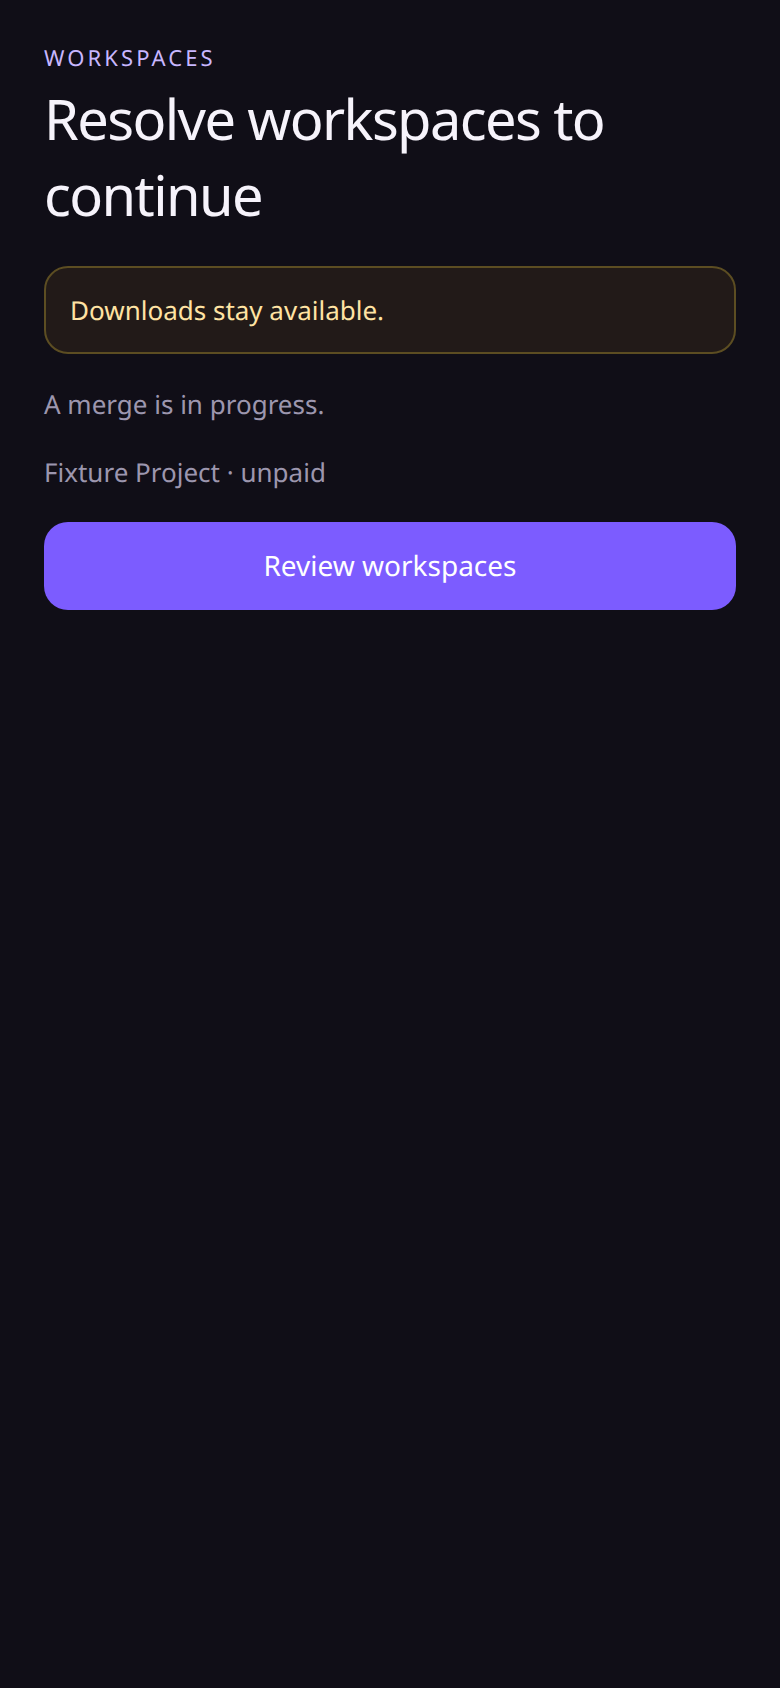
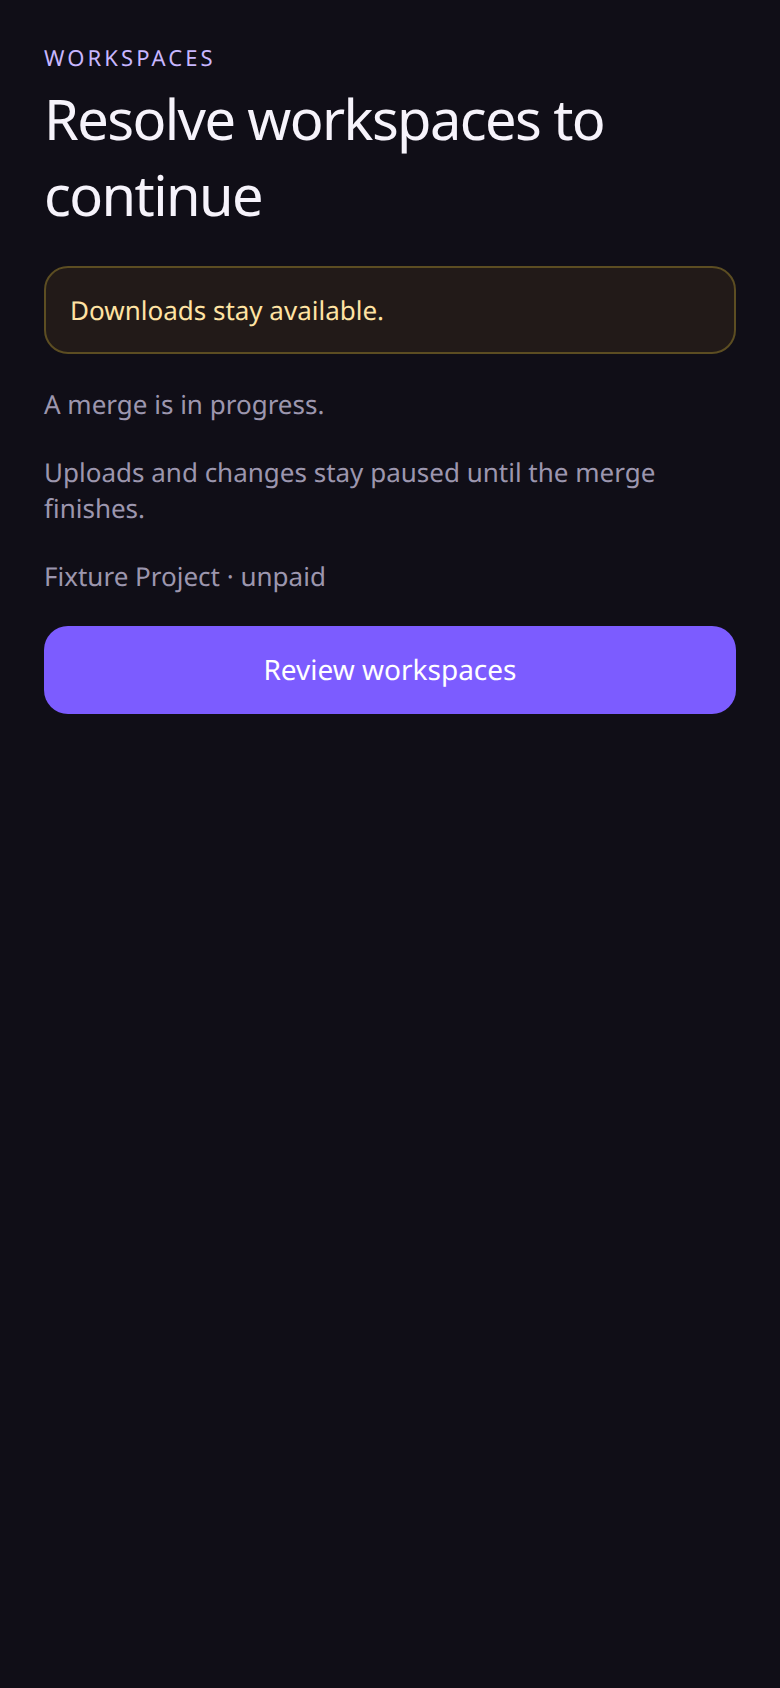
feat(mobile): fall back on support 401 and require feeWaived
A support-request 401, with or without a code, uses the support mailto
and does not ask the user to sign in. owner-fee-waived.json is vendored
from cloud-ssd PR #5, and a missing feeWaived is a parse error.

Changed region(s): [[0.0308, 0.2773, 0.9538, 0.4313]]

diff --git a/apps/mobile/test/pricing.test.tsx b/apps/mobile/test/pricing.test.tsx
@@ -1,9 +1,9 @@
 import { parseWorkspacePrice, workspacePriceLabel, type WorkspacePrice, type WorkspaceRecord } from "@gendragoon/core";
 import { fireEvent, render } from "@testing-library/react-native";
 import { WORKSPACE_PRICING_ENABLED } from "../src/flags";
-import { additionalWorkspaceFeeText, grandfatheringEndedPrice, includedPricingEndsWarning, serverPriceLabel, workspaceQuoteExplanation } from "../src/pricing";
+import { additionalWorkspaceFeeText, grandfatheringEndedPrice, includedPricingEndsWarning, parseFeeWaived, serverPriceLabel, workspaceQuoteExplanation } from "../src/pricing";
 import { ConnectStorageScreen, LockScreen, NewWorkspaceScreen, WorkspacesScreen } from "../src/screens";
-import { FIXTURE_SOURCE_SHA_BY_AREA, loadFixture } from "./loadFixture";
+import { FIXTURE_SOURCE_SHA_BY_AREA, OWNER_FEE_WAIVED_SHA, loadFixture } from "./loadFixture";
 
 const PRICING_SHA = "4c3dd13587fae1ddfa907ad2b84c0886d7794ade";
 
@@ -61,7 +61,10 @@ describe("workspace price labels", () => {
     );
     expect(body.workspaces[0]?.monthlyPriceCents).toBe(500);
     expect(body.workspaces[0]?.isFree).toBe(false);
-    expect(screen.getByTestId("workspace-price-11111111-1111-4111-8111-000000000003").props.children).toBe("$5.00");
+    expect(() => parseFeeWaived(body.workspaces[0])).toThrow(TypeError);
+    expect(serverPriceLabel(body.workspaces[0])).toBeNull();
+    expect(workspacePriceLabel(parseWorkspacePrice(body.workspaces[0]))).toBe("$5.00");
+    expect(screen.queryByTestId("workspace-price-11111111-1111-4111-8111-000000000003")).toBeNull();
     expect(screen.queryByText("Free")).toBeNull();
     expect(screen.queryByText("$0.00/mo")).toBeNull();
   });
@@ -77,8 +80,12 @@ describe("workspace price labels", () => {
         onMerge={() => undefined}
       />,
     );
-    expect(screen.getByTestId("workspace-price-11111111-1111-4111-8111-000000000001").props.children).toBe("$5.00");
-    expect(screen.getByTestId("workspace-price-11111111-1111-4111-8111-000000000002").props.children).toBe("Free");
+    expect(serverPriceLabel(body.workspaces[0])).toBeNull();
+    expect(serverPriceLabel(body.workspaces[1])).toBeNull();
+    expect(workspacePriceLabel(parseWorkspacePrice(body.workspaces[0]))).toBe("$5.00");
+    expect(workspacePriceLabel(parseWorkspacePrice(body.workspaces[1]))).toBe("Free");
+    expect(screen.queryByTestId("workspace-price-11111111-1111-4111-8111-000000000001")).toBeNull();
+    expect(screen.queryByTestId("workspace-price-11111111-1111-4111-8111-000000000002")).toBeNull();
     expect(screen.queryByText("$0.00/mo")).toBeNull();
   });
 
@@ -97,7 +104,7 @@ describe("workspace price labels", () => {
       <NewWorkspaceScreen quote={free.response.body.project} byoQuote={byo.response.body} onCreate={() => undefined} />,
     );
     expect(screen.getByTestId("new-workspace-explain").props.children).toBe("Your first hosted workspace is free");
-    expect(screen.getByTestId("new-workspace-price").props.children).toBe("Free");
+    expect(screen.queryByTestId("new-workspace-price")).toBeNull();
     expect(screen.getByTestId("create-workspace")).toBeDisabled();
     await fireEvent.changeText(screen.getByTestId("workspace-name"), "Vacation photos");
     expect(screen.getByTestId("create-workspace")).not.toBeDisabled();
@@ -109,7 +116,14 @@ describe("workspace price labels", () => {
       <NewWorkspaceScreen quote={paid.response.body.project} onCreate={() => undefined} />,
     );
     expect(second.getByTestId("new-workspace-explain").props.children).toBe("Additional workspaces are $5.00/mo");
-    expect(second.getByTestId("new-workspace-price").props.children).toBe("$5.00");
+    expect(second.queryByTestId("new-workspace-price")).toBeNull();
+    const priced = await render(
+      <NewWorkspaceScreen
+        quote={{ isFree: true, grandfathered: false, monthlyPriceCents: 0, feeWaived: false }}
+        onCreate={() => undefined}
+      />,
+    );
+    expect(priced.getByTestId("new-workspace-price").props.children).toBe("Free");
   });
 
   it("labels a BYO register at 500 cents and keeps one free workspace in a concurrent create", () => {
@@ -134,6 +148,9 @@ describe("workspace price labels", () => {
     expect(() => parseWorkspacePrice({ name: "no price" })).toThrow(TypeError);
     expect(serverPriceLabel(null)).toBeNull();
     expect(serverPriceLabel({ name: "no price" })).toBeNull();
+    expect(() => parseFeeWaived({ isFree: false, grandfathered: false, monthlyPriceCents: 500 })).toThrow(TypeError);
+    expect(serverPriceLabel({ isFree: false, grandfathered: false, monthlyPriceCents: 500 })).toBeNull();
+    expect(serverPriceLabel({ isFree: false, grandfathered: false, monthlyPriceCents: 500, feeWaived: false })).toBe("$5.00");
     expect(serverPriceLabel({ isFree: false, grandfathered: false, monthlyPriceCents: 500, feeWaived: true })).toBe("Included");
     expect(serverPriceLabel({ isFree: true, grandfathered: false, monthlyPriceCents: 0, feeWaived: true })).toBe("Free");
     expect(serverPriceLabel({ feeWaived: true })).toBe("Included");
@@ -148,7 +165,9 @@ describe("workspace price labels", () => {
       grandfathered: false,
       isFree: false,
       monthlyPriceCents: 500,
+      feeWaived: false,
     };
+    expect(grandfatheringEndedPrice({ ...body, feeWaived: undefined })).toBeNull();
     expect(grandfatheringEndedPrice(body)).toBe("$5.00");
     expect(includedPricingEndsWarning(500)).toBe(
       "Switching to your own storage ends this workspace's included pricing. It will cost $5.00/mo.",
@@ -174,8 +193,38 @@ describe("workspace price labels", () => {
     );
     expect(workspacePriceLabel(parseWorkspacePrice(body.workspaces[0]))).toBe("Included");
     expect(workspacePriceLabel(parseWorkspacePrice(body.workspaces[1]))).toBe("Free");
-    expect(screen.getByTestId("workspace-price-11111111-1111-4111-8111-000000000008").props.children).toBe("Included");
-    expect(screen.getByTestId("workspace-price-11111111-1111-4111-8111-000000000009").props.children).toBe("Free");
+    expect(serverPriceLabel(body.workspaces[0])).toBeNull();
+    expect(serverPriceLabel(body.workspaces[1])).toBeNull();
+    expect(screen.queryByTestId("workspace-price-11111111-1111-4111-8111-000000000008")).toBeNull();
+    expect(screen.queryByTestId("workspace-price-11111111-1111-4111-8111-000000000009")).toBeNull();
+    expect(screen.queryByText("$0.00")).toBeNull();
+    expect(screen.queryByText("$0.00/mo")).toBeNull();
+  });
+
+  it("labels owner-fee-waived as Included", async () => {
+    const fixture = loadFixture<{
+      feeWaived: boolean;
+      project: { id: string; name: string; kind: "paid"; isFree: boolean; grandfathered: boolean; monthlyPriceCents: number; feeWaived: boolean };
+    }>("workspaces/owner-fee-waived.json");
+    expect(fixture.sourceSha).toBe(OWNER_FEE_WAIVED_SHA);
+    expect(fixture.sourcePath).toBe("fixtures/workspaces/owner-fee-waived.json");
+    const project = fixture.response.body.project;
+    expect(parseFeeWaived(project)).toBe(true);
+    expect(parseFeeWaived(fixture.response.body)).toBe(true);
+    expect(serverPriceLabel(project)).toBe("Included");
+    const withoutFee = { ...project };
+    delete (withoutFee as { feeWaived?: boolean }).feeWaived;
+    expect(() => parseFeeWaived(withoutFee)).toThrow(TypeError);
+    expect(serverPriceLabel(withoutFee)).toBeNull();
+    const screen = await render(
+      <WorkspacesScreen
+        workspaces={[project]}
+        unpaidIds={[]}
+        onDelete={() => undefined}
+        onMerge={() => undefined}
+      />,
+    );
+    expect(screen.getByTestId(`workspace-price-${project.id}`).props.children).toBe("Included");
     expect(screen.queryByText("$0.00")).toBeNull();
     expect(screen.queryByText("$0.00/mo")).toBeNull();
   });

diff --git a/apps/mobile/test/support-request.test.tsx b/apps/mobile/test/support-request.test.tsx
@@ -247,6 +247,62 @@ describe("deletion support request", () => {
     openURL.mockRestore();
   });
 
+  it("PROVISIONAL: a local 401 unauthorized or a 401 with no code mails and never asks for sign-in", async () => {
+    // Riley has not shipped a support-request 401 fixture. Both cases are local until that file exists.
+    const unauthorized = await requestDeletionSupport({
+      baseUrl: "https://api.example.test",
+      jobId,
+      statusToken: TOKEN,
+      fetchImpl: (async () => responseFor(401, { error: "unauthorized" })) as typeof fetch,
+    });
+    const noCode = await requestDeletionSupport({
+      baseUrl: "https://api.example.test",
+      jobId,
+      statusToken: TOKEN,
+      fetchImpl: (async () => new Response("", { status: 401 })) as typeof fetch,
+    });
+    expect(unauthorized).toEqual({ kind: "fallback" });
+    expect(noCode).toEqual({ kind: "fallback" });
+
+    const openURL = jest.spyOn(Linking, "openURL").mockResolvedValue(undefined as never);
+    const onReauth = jest.fn();
+    const secrets = new MemorySecretStore();
+    await secrets.set("account-deletion:status-token", new TextEncoder().encode(TOKEN));
+    const mailto = supportContactTarget(SUPPORT_CONTACT.value, jobId);
+    expect(mailto).toBe(`mailto:${SUPPORT_CONTACT.value}?subject=${encodeURIComponent(`Account deletion ${jobId}`)}`);
+    const screen = await render(
+      <DeleteAccountScreen
+        frame="not-retryable"
+        jobId={jobId}
+        supportEndpointEnabled
+        apiBase="https://api.example.test"
+        supportFetch={(async () => responseFor(401, { error: "unauthorized" })) as typeof fetch}
+        activeTransfers={0}
+        secrets={secrets}
+        workspaceIds={["ws-1"]}
+        idToken=""
+        client={{
+          async deleteAccount() {
+            return { jobId };
+          },
+          async deletionStatus() {
+            return { jobId, status: "failed", retryable: false };
+          },
+        }}
+        onReauth={onReauth}
+        onSignedOut={() => undefined}
+        onDone={() => undefined}
+        onError={() => undefined}
+      />,
+    );
+    await fireEvent.press(screen.getByTestId("contact-support"));
+    await waitFor(() => expect(openURL).toHaveBeenCalledWith(mailto));
+    expect(onReauth).not.toHaveBeenCalled();
+    expect(screen.queryByTestId("deletion-reauth")).toBeNull();
+    expect(screen.queryByText("Sign in again. Your last sign-in is older than 5 minutes.")).toBeNull();
+    openURL.mockRestore();
+  });
+
   it("409 refreshes deletion status and 429 shows the already-sent message", async () => {
     const openURL = jest.spyOn(Linking, "openURL").mockResolvedValue(undefined as never);
     const secrets = new MemorySecretStore();

diff --git a/apps/mobile/src/pricing.ts b/apps/mobile/src/pricing.ts
@@ -3,20 +3,34 @@
  * Free, Included, and cent formatting live in core.
  * `feeWaived` is not on core's helper yet (296cb96). Until
  * `workspacePriceLabel` returns Included for that flag, this file does.
+ * The flag is required: a missing or non-boolean value is a parse error,
+ * not `false`.
  */
 import { parseWorkspacePrice, workspacePriceLabel, type WorkspacePrice } from "@gendragoon/core";
 
-function feeWaived(value: unknown): boolean {
-  return !!value && typeof value === "object" && (value as { feeWaived?: unknown }).feeWaived === true;
+/** Reads `feeWaived`. Missing and non-booleans throw; they are not false. */
+export function parseFeeWaived(value: unknown): boolean {
+  if (!value || typeof value !== "object" || !Object.prototype.hasOwnProperty.call(value, "feeWaived")) {
+    throw new TypeError("Workspace feeWaived is missing");
+  }
+  const flag = (value as { feeWaived: unknown }).feeWaived;
+  if (typeof flag !== "boolean") throw new TypeError("Workspace feeWaived is missing");
+  return flag;
 }
 
 export function serverPriceLabel(value: unknown): string | null {
-  const waived = feeWaived(value);
+  let waived: boolean;
+  try {
+    waived = parseFeeWaived(value);
+  } catch (error) {
+    if (error instanceof TypeError) return null;
+    throw error;
+  }
   try {
     const price = parseWorkspacePrice(value);
-    const label = workspacePriceLabel(waived ? { ...price, feeWaived: true } as WorkspacePrice : price);
+    const label = workspacePriceLabel(price);
     if (price.isFree) return label;
-    if (waived && label !== "Included") return "Included";
+    if (waived) return "Included";
     return label;
   } catch (error) {
     if (error instanceof TypeError) return waived ? "Included" : null;
@@ -32,18 +46,7 @@ export function grandfatheringEnded(value: unknown): boolean {
 /** Price to show once register reports `grandfatheringEnded`. Core formats the cents. */
 export function grandfatheringEndedPrice(value: unknown): string | null {
   if (!grandfatheringEnded(value)) return null;
-  const parsed = serverPriceLabel(value);
-  if (parsed) return parsed;
-  if (!value || typeof value !== "object") return null;
-  const record = value as { grandfathered?: unknown; monthlyPriceCents?: unknown; isFree?: unknown };
-  if (record.grandfathered !== false || typeof record.monthlyPriceCents !== "number" || !Number.isInteger(record.monthlyPriceCents)) {
-    return null;
-  }
-  return workspacePriceLabel({
-    isFree: record.isFree === true,
-    grandfathered: false,
-    monthlyPriceCents: record.monthlyPriceCents,
-  });
+  return serverPriceLabel(value);
 }
 
 /** `$5.00/mo` from core's cent formatter. Zero and missing amounts stay blank. */

diff --git a/apps/mobile/src/shots.tsx b/apps/mobile/src/shots.tsx
@@ -156,15 +156,15 @@ export function ShotFrame(props: { id: ShotId }) {
         {props.id === "byo-s3" ? <ConnectStorageScreen /> : null}
         {props.id === "pricing-free-first" ? (
           <NewWorkspaceScreen
-            quote={{ isFree: true, grandfathered: true, monthlyPriceCents: 0 }}
-            byoQuote={{ isFree: false, grandfathered: false, monthlyPriceCents: 500 }}
+            quote={{ isFree: true, grandfathered: true, monthlyPriceCents: 0, feeWaived: false }}
+            byoQuote={{ isFree: false, grandfathered: false, monthlyPriceCents: 500, feeWaived: false }}
             onCreate={() => undefined}
           />
         ) : null}
         {props.id === "pricing-create-byo" ? (
           <NewWorkspaceScreen
-            quote={{ isFree: true, grandfathered: true, monthlyPriceCents: 0 }}
-            byoQuote={{ isFree: false, grandfathered: false, monthlyPriceCents: 500 }}
+            quote={{ isFree: true, grandfathered: true, monthlyPriceCents: 0, feeWaived: false }}
+            byoQuote={{ isFree: false, grandfathered: false, monthlyPriceCents: 500, feeWaived: false }}
             initialName="Vacation photos"
             initialStorage="byo"
             initialProviderId="aws"
@@ -181,6 +181,7 @@ export function ShotFrame(props: { id: ShotId }) {
                 isFree: false,
                 grandfathered: false,
                 monthlyPriceCents: 500,
+                feeWaived: false,
               },
               {
                 id: "11111111-1111-4111-8111-000000000002",
@@ -189,6 +190,7 @@ export function ShotFrame(props: { id: ShotId }) {
                 isFree: true,
                 grandfathered: true,
                 monthlyPriceCents: 0,
+                feeWaived: false,
               },
             ]}
             unpaidIds={["11111111-1111-4111-8111-000000000001"]}
@@ -208,6 +210,7 @@ export function ShotFrame(props: { id: ShotId }) {
                 isFree: false,
                 grandfathered: false,
                 monthlyPriceCents: 500,
+                feeWaived: false,
               },
               {
                 id: "11111111-1111-4111-8111-000000000001",
@@ -216,6 +219,7 @@ export function ShotFrame(props: { id: ShotId }) {
                 isFree: true,
                 grandfathered: false,
                 monthlyPriceCents: 0,
+                feeWaived: false,
               },
             ]}
             unpaidIds={[]}

diff --git a/apps/mobile/src/supportRequest.ts b/apps/mobile/src/supportRequest.ts
@@ -23,9 +23,9 @@ export function deletionSupportRequestPath(jobId: string): string {
  * Provisional call. A 202 `{status:"received", requestId}` is success, including
  * a repeat of the same requestId. 409 `support_not_needed` means the job is not
  * failed, so the caller refreshes deletion status. 429 is already sent.
- * A network error, HTTP 404, or HTTP 5xx falls back to the support contact.
- * 404 must not ask the user to sign in: the account may already be deleted.
- * Only 202, a repeat send, 409, and 429 have their own UI.
+ * A network error, HTTP 401, HTTP 404, or HTTP 5xx falls back to the support contact.
+ * 401 `unauthorized`, a 401 with no code, and 404 must not ask the user to sign in:
+ * the account may already be deleted. Only 202, a repeat send, 409, and 429 have their own UI.
  */
 export async function requestDeletionSupport(input: {
   baseUrl: string;
@@ -56,6 +56,8 @@ export async function requestDeletionSupport(input: {
       return { kind: "sent", requestId: body.requestId };
     }
   }
+  // 401 (`unauthorized` or no code) and 404 match a network error or 5xx.
+  if (response.status === 401 || response.status === 404) return { kind: "fallback" };
   return { kind: "fallback" };
 }
 

diff --git a/apps/mobile/test/loadFixture.ts b/apps/mobile/test/loadFixture.ts
@@ -7,6 +7,9 @@ export const FIXTURE_SOURCE_SHA = "da3927627fee76103981714f9f8ffa954843b74b";
 /** cloud-ssd PR #6 support fixtures. The rest of account-deletion stays on fff0a84. */
 export const SUPPORT_FIXTURE_SHA = "d33970cbf0175a74898c37a8a624a92b1c1a5a94";
 
+/** cloud-ssd PR #5 tip that adds `workspaces/owner-fee-waived.json`. */
+export const OWNER_FEE_WAIVED_SHA = "0715b1a933a3ee3bb489e28a6122475403bb341d";
+
 /** Files whose source commit differs from the rest of their area. */
 export const FIXTURE_SOURCE_SHA_BY_FILE: Record<string, string> = {
   "account-deletion/support-received.json": SUPPORT_FIXTURE_SHA,
@@ -14,6 +17,7 @@ export const FIXTURE_SOURCE_SHA_BY_FILE: Record<string, string> = {
   "account-deletion/support-bad-token.json": SUPPORT_FIXTURE_SHA,
   "account-deletion/support-rate-limited.json": SUPPORT_FIXTURE_SHA,
   "account-deletion/support-not-needed.json": SUPPORT_FIXTURE_SHA,
+  "workspaces/owner-fee-waived.json": OWNER_FEE_WAIVED_SHA,
 };
 
 /** Later fixture areas, keyed by the directory under fixtures/. */

diff --git a/apps/mobile/src/screens.tsx b/apps/mobile/src/screens.tsx
@@ -172,6 +172,11 @@ export function LockScreen(props: {
       {props.lock ? (
         <Text testID="lock-reason" style={styles.help}>{lockReasonMessage(props.lock.reason, props.lock.overBy)}</Text>
       ) : null}
+      {props.lock?.reason === "merge_in_progress" ? (
+        <Text testID="merge-in-progress-detail" style={styles.help}>
+          Uploads and changes stay paused until the merge finishes.
+        </Text>
+      ) : null}
       {rows.map((workspace) => (
         <Text key={workspace.id} testID={`lock-workspace-${workspace.id}`} style={styles.help}>
           {workspace.name}{workspace.unpaid ? " · unpaid" : ""}
@@ -247,7 +252,7 @@ export interface ServerMergeResult {
   copied: number;
 }
 
-export type ListedWorkspace = WorkspaceRecord;
+export type ListedWorkspace = WorkspaceRecord & { feeWaived?: boolean };
 
 export function NewWorkspaceScreen(props: {
   /** Server quote for a hosted workspace. Not a client-side count. */

diff --git a/apps/mobile/test/server-fixtures.test.tsx b/apps/mobile/test/server-fixtures.test.tsx
@@ -184,6 +184,13 @@ describe("vendored cloud-ssd fixtures", () => {
     const pays = name === "lapsed" || name === "over-cap-and-lapsed";
     if (pays) expect(screen.getByTestId("pay-to-restore")).toBeTruthy();
     else expect(screen.queryByTestId("pay-to-restore")).toBeNull();
+    if (name === "merge-in-progress") {
+      expect(textOf(screen.getByTestId("merge-in-progress-detail"))).toBe(
+        "Uploads and changes stay paused until the merge finishes.",
+      );
+    } else {
+      expect(screen.queryByTestId("merge-in-progress-detail")).toBeNull();
+    }
   });
 
   it("pay to restore is the action for a lapsed lock", async () => {

diff --git a/apps/mobile/test/workspace-state.test.tsx b/apps/mobile/test/workspace-state.test.tsx
@@ -20,13 +20,14 @@ const FREE_ID = "11111111-1111-4111-8111-000000000001";
 const PAID_ID = "11111111-1111-4111-8111-000000000002";
 const PAY_BY = Date.UTC(2026, 9, 21);
 
-function row(partial: Pick<WorkspaceRecord, "id" | "name"> & Partial<WorkspaceRecord>): WorkspaceRecord {
+function row(partial: Pick<WorkspaceRecord, "id" | "name"> & Partial<WorkspaceRecord>): WorkspaceRecord & { feeWaived: boolean } {
   return {
     kind: "paid",
     isFree: false,
     grandfathered: false,
     monthlyPriceCents: 500,
     projectStatus: "active",
+    feeWaived: false,
     ...partial,
   };
 }
